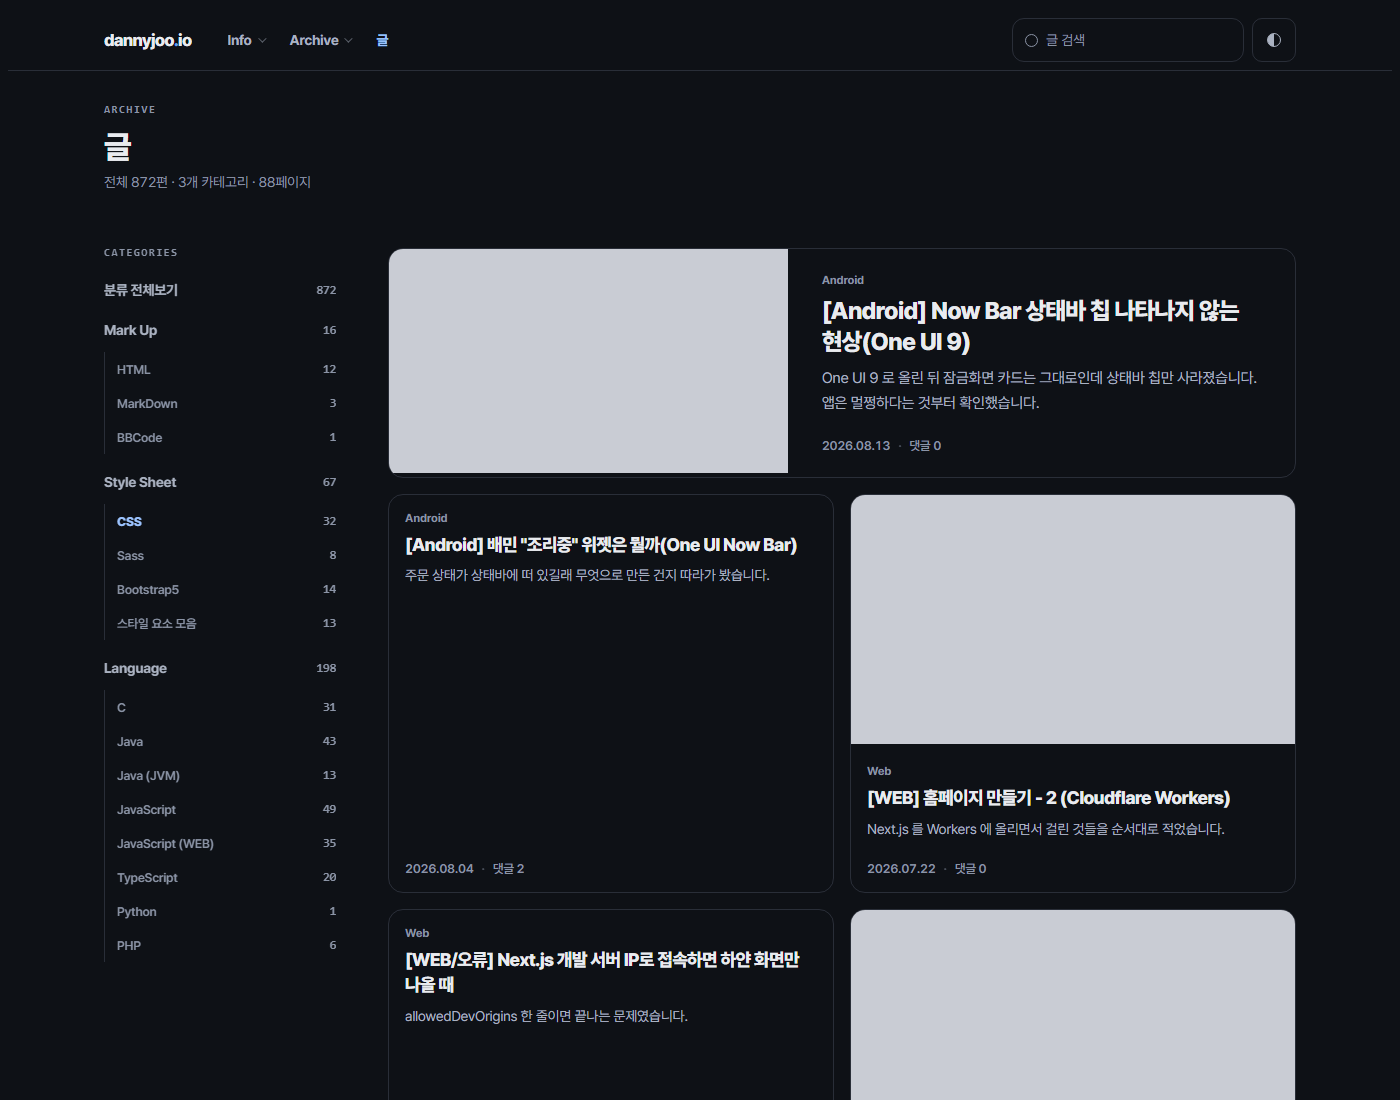
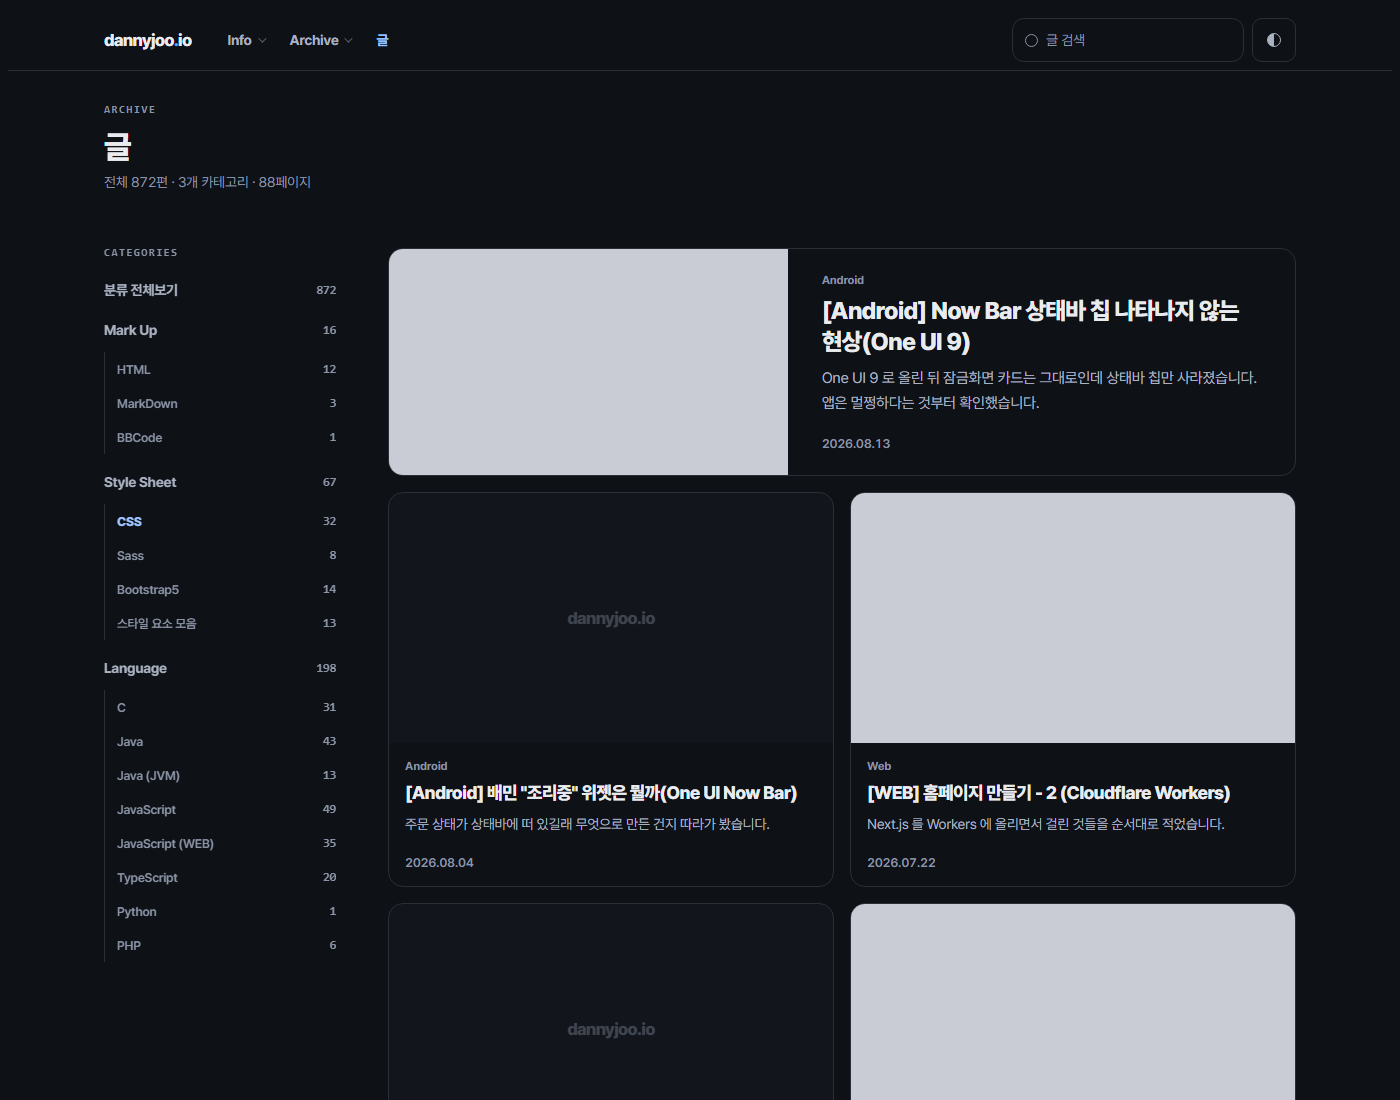
fix: Grain 글 상세 미출력, 카테고리 트리 형식, 썸네일 넘침, 검색 URL 형식 수정

diff --git a/design/blog/grain/skin.html b/design/blog/grain/skin.html
@@ -147,7 +147,7 @@
     <div class="widget">
       <p class="widget__title">Categories</p>
       <nav class="widget__body cat-tree">
-        <s_sidebar_element>[##_category_##]</s_sidebar_element>
+        <s_sidebar_element>[##_category_list_##]</s_sidebar_element>
       </nav>
     </div>
   </aside>
@@ -170,7 +170,7 @@
               <p class="article-card__cat">[##_list_rep_category_##]</p>
               <h2 class="article-card__title">[##_list_rep_title_text_##]</h2>
               <p class="article-card__excerpt">[##_list_rep_summary_##]</p>
-              <p class="article-card__meta">[##_list_rep_regdate_##]<i>·</i>댓글 [##_list_rep_rp_cnt_##]</p>
+              <p class="article-card__meta">[##_list_rep_regdate_##]</p>
             </div>
           </a>
         </s_list_rep>
@@ -192,6 +192,7 @@
 
 <!-- ==================== 글 상세 ====================
      s_permalink_article_rep 은 글 페이지에서만 그려진다 -->
+<s_article_rep>
 <s_permalink_article_rep>
 <main class="wrap post-layout">
   <aside class="sidebar">
@@ -213,7 +214,7 @@
     <div class="widget">
       <p class="widget__title">Archive</p>
       <nav class="widget__body cat-tree">
-        <s_sidebar_element>[##_category_##]</s_sidebar_element>
+        <s_sidebar_element>[##_category_list_##]</s_sidebar_element>
       </nav>
     </div>
   </aside>
@@ -285,6 +286,7 @@
   </article>
 </main>
 </s_permalink_article_rep>
+</s_article_rep>
 
 <!-- ==================== 방명록 ==================== -->
 <s_guest>
@@ -440,7 +442,19 @@
     }).catch(function () { /* 마크업에 적힌 값을 그대로 둔다 */ });
   }
 
-  /* ---------- 5. 목록 1페이지 첫 글은 크게 ---------- */
+  /* ---------- 5. 썸네일 없는 글 ---------- */
+  // 티스토리는 대표 이미지가 없으면 s_list_rep_thumbnail 블록 자체를 안 그린다.
+  // 그대로 두면 카드 높이가 들쭉날쭉해서 옅은 자리표시자를 넣는다
+  $$('.article-card').forEach(function (card) {
+    if ($('.article-card__thumb', card)) return;
+    var ph = document.createElement('div');
+    ph.className = 'article-card__thumb article-card__thumb--none';
+    ph.setAttribute('aria-hidden', 'true');
+    ph.textContent = 'dannyjoo.io';
+    card.insertBefore(ph, card.firstChild);
+  });
+
+  /* ---------- 6. 목록 1페이지 첫 글은 크게 ---------- */
   if (page === 'list' && (new URLSearchParams(location.search).get('page') || '1') === '1') {
     var lead = $('.article-grid .article-card');
     if (lead && $('.article-card__thumb', lead)) lead.classList.add('article-card--hero');

diff --git a/design/blog/grain/style.css b/design/blog/grain/style.css
@@ -1239,6 +1239,23 @@ button { cursor: pointer; }
    이게 없으면 글 상세 위에 목록이 그대로 남는다 */
 [hidden] { display: none !important; }
 
+/* 카드 썸네일. 티스토리는 R750x0 으로 주기 때문에 세로로 긴 이미지가 원본 비율 그대로
+   내려온다. 상자에 가두고 잘라내지 않으면 카드 밖으로 넘쳐 겹친다 */
+.article-card__thumb { overflow: hidden; background: var(--fill); }
+.article-card__thumb img { width: 100%; height: 100%; object-fit: cover; display: block; }
+
+/* 대표 이미지가 없는 글 */
+.article-card__thumb--none {
+  aspect-ratio: 16 / 9;
+  display: grid;
+  place-items: center;
+  color: var(--ink-3);
+  font-size: 17px;
+  font-weight: 800;
+  letter-spacing: -0.04em;
+  opacity: 0.4;
+}
+
 /* 아바타 — 목업에선 회색 자리표시자였다. 실제로는 img 가 들어간다 */
 .profile-card__avatar { overflow: hidden; background: var(--fill); flex: none; }
 .profile-card__avatar img { width: 100%; height: 100%; object-fit: cover; display: block; }
